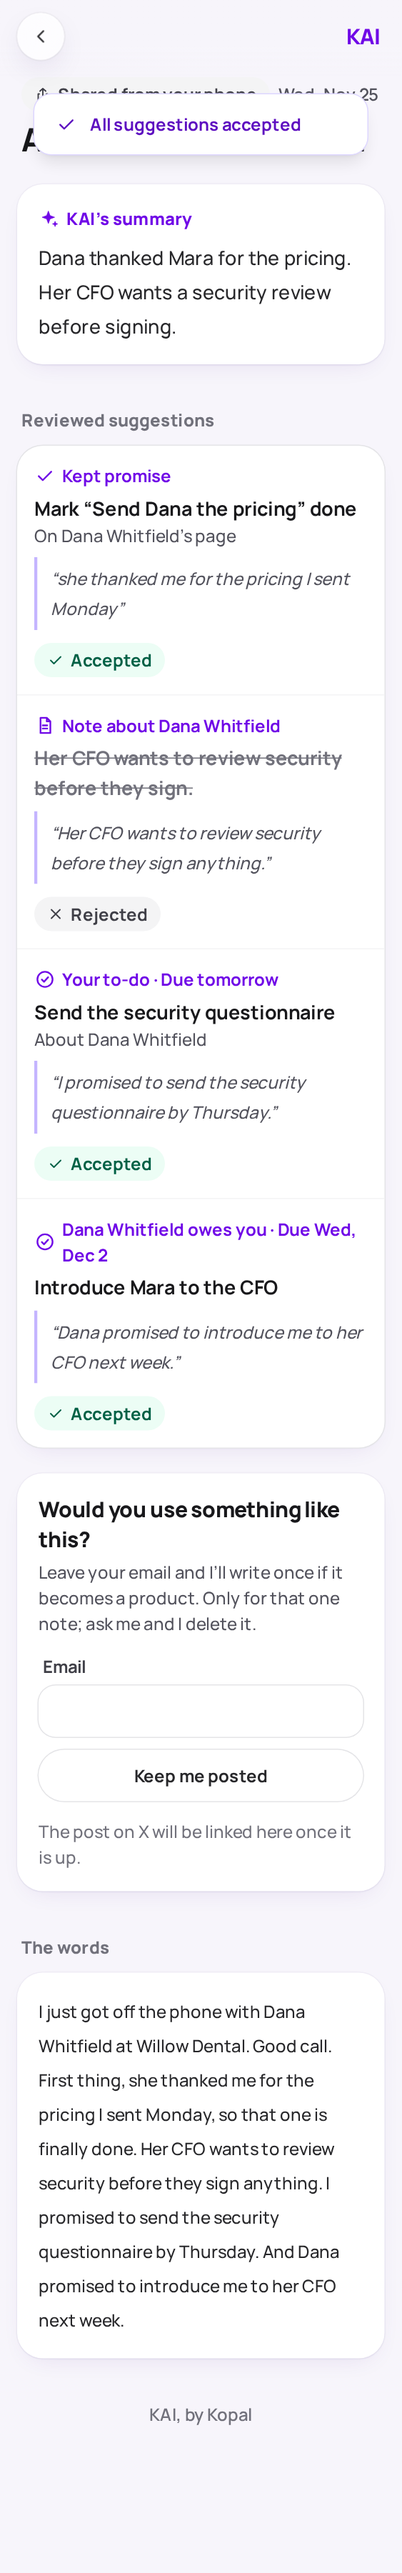
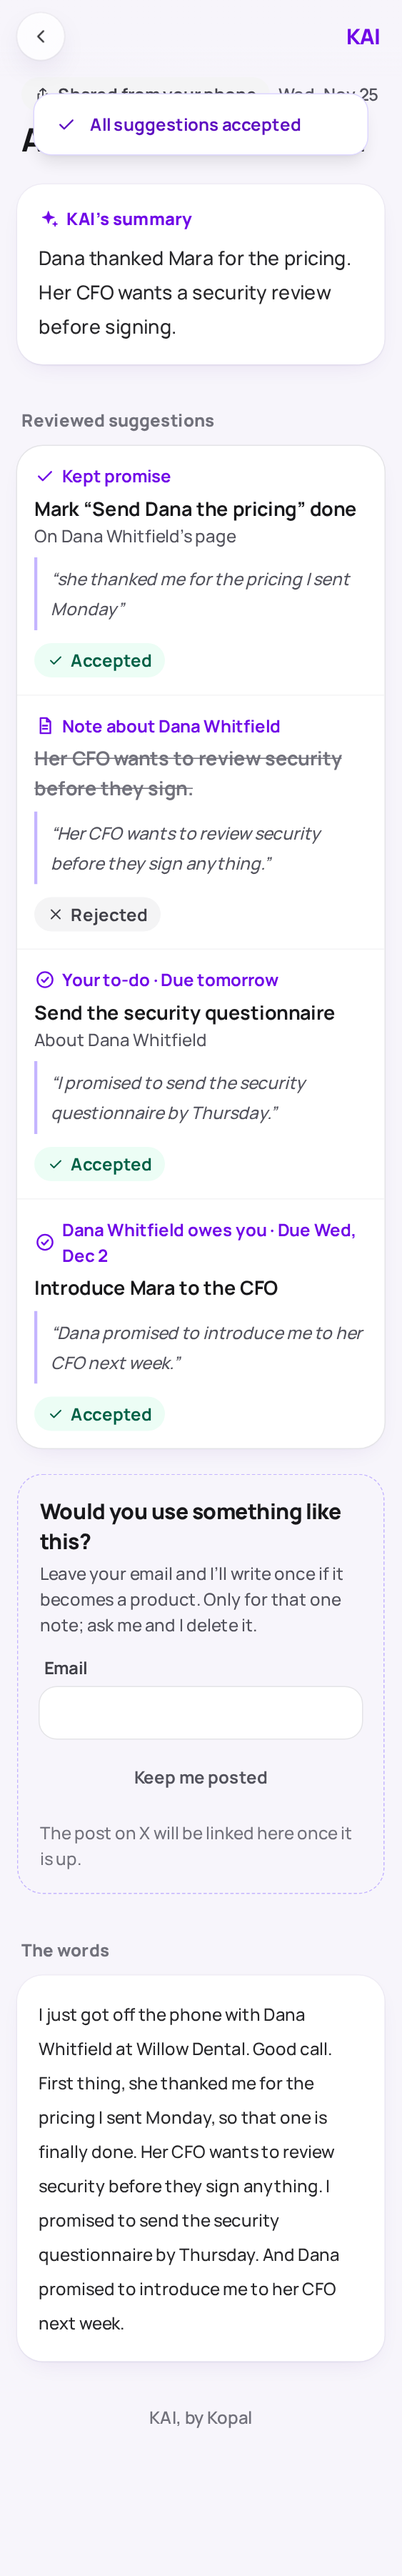
Offer verified trial signup from the quieter Home email card

diff --git a/src/look/screens/Waitlist.tsx b/src/look/screens/Waitlist.tsx
@@ -1,18 +1,20 @@
-import { useState } from 'react'
-import { Button, Card, Field, Notice, TextLink } from '../ui'
+import { useContext, useEffect, useRef, useState } from 'react'
+import { SignupCardContext, Button, Card, Field, Notice, TextLink } from '../ui'
 
 /**
  * The waitlist card, at the foot of Home and under a recording once its
- * suggestions are decided. Its button stays quiet: it is never the screen's
- * filled violet one.
+ * suggestions are decided. Public Home also offers the trial, taking over
+ * the main action when its button is in view.
  */
 export function Waitlist({
   postUrl,
   saved,
   busy,
   error,
-  onSubmit,
+  onSubmit, onTry, trialOpen,
 }: {
+  onTry?: (email:string)=>void
+  trialOpen?: boolean
   postUrl: string | null
   saved?: boolean
   busy?: boolean
@@ -20,8 +22,13 @@ export function Waitlist({
   onSubmit: (email: string) => void
 }) {
   const [email, setEmail] = useState('')
+  const {enabled,active,setActive}=useContext(SignupCardContext)
+  const action=useRef<HTMLDivElement>(null)
+  const [visible,setVisible]=useState(false)
+  useEffect(()=>{const node=action.current;if(!enabled || !node || saved){setVisible(false);return}const observer=new IntersectionObserver(entries=>setVisible(entries[0].isIntersecting),{rootMargin:'-160px 0px -100px 0px'});observer.observe(node);return()=>observer.disconnect()},[enabled,saved])
+  useEffect(()=>{setActive(Boolean(enabled && (visible || trialOpen)));return()=>setActive(false)},[enabled,visible,trialOpen,setActive])
   return (
-    <Card aria-label="Keep me posted" className="p-5">
+    <section aria-label="Keep me posted" className="rounded-3xl border border-dashed border-violet-300 bg-transparent p-5">
       <h2 className="text-xl font-extrabold tracking-tight">Would you use something like this?</h2>
       <p className="mt-1 text-base font-medium text-zinc-600">
         Leave your email and I’ll write once if it becomes a product. Only for that one note; ask me and I delete it.
@@ -35,12 +42,13 @@ export function Waitlist({
           className="mt-4 space-y-3"
           onSubmit={(event) => {
             event.preventDefault()
-            onSubmit(email)
+            if((event.nativeEvent as SubmitEvent).submitter?.getAttribute('data-trial')==='true')onTry?.(email);else onSubmit(email)
           }}
         >
           <Field label="Email" id="waitlist-email" type="email" autoComplete="email" maxLength={254} required value={email} onChange={(event) => setEmail(event.target.value)} />
           {error && <Notice tone="error">{error}</Notice>}
-          <Button variant="outline" type="submit" wide disabled={busy}>
+          {enabled && <div ref={action}><Button data-trial="true" variant={active && !trialOpen ? 'primary':'outline'} type="submit" wide disabled={busy}>Try it myself</Button></div>}
+          <Button variant="quiet" type="submit" wide disabled={busy}>
             {busy ? 'Saving…' : 'Keep me posted'}
           </Button>
         </form>
@@ -54,7 +62,7 @@ export function Waitlist({
           <p className="pt-2 text-base font-medium text-zinc-500">The post on X will be linked here once it is up.</p>
         )}
       </div>
-    </Card>
+    </section>
   )
 }
 

diff --git a/src/Waitlist.tsx b/src/Waitlist.tsx
@@ -1,14 +1,16 @@
+import {TrialPopup} from './look/screens/TrialPopup';
 import {TERMS_VERSION} from './terms';
 import { Trial } from './look/screens/Trial';
 import { useEffect,useState } from 'react';
 import { Waitlist as WaitlistView,Operator as OperatorView } from './look/screens/Waitlist';
 export function Waitlist({trial=false}:{trial?:boolean}) {
   const [codeEmail,setCodeEmail]=useState('');
+  const [trialEmail,setTrialEmail]=useState(''),[trialOpen,setTrialOpen]=useState(false);
   const [ready,setReady]=useState(false),[busy,setBusy]=useState(false),[saved,setSaved]=useState(false),[error,setError]=useState(''),[post,setPost]=useState<string|null>(null);
   useEffect(()=> {fetch('/api/waitlist').then(r=>{if(!r.ok)throw new Error();return r.json();}).then(data=>{setPost(data.xPostUrl);setReady(true);}).catch(()=>setError('The list could not load. Reload this page to try again.'));},[]);
-  async function submit(email:string) {
+  async function submit(email:string,forTrial=trial) {
     setBusy(true);setError('');
-    if(trial){
+    if(forTrial){
       try {const r=await fetch('/api/trial/code',{method:'POST',headers:{'Content-Type':'application/json'},body:JSON.stringify({email,termsVersion:TERMS_VERSION})});const data=await r.json();if(!r.ok)throw new Error(data.error);setCodeEmail(email);}
       catch(e){setError(e instanceof Error ? e.message:'The code could not be sent.');}finally{setBusy(false);}
       return;
@@ -21,7 +23,9 @@ export function Waitlist({trial=false}:{trial?:boolean}) {
   }
   async function verify(code:string){setBusy(true);setError('');try{const r=await fetch('/api/trial/verify',{method:'POST',headers:{'Content-Type':'application/json'},body:JSON.stringify({email:codeEmail,code,termsVersion:TERMS_VERSION})});const data=await r.json();if(!r.ok)throw new Error(data.error);location.assign('/home');}catch(e){setError(e instanceof Error ? e.message:'The code could not be checked.');}finally{setBusy(false);}}
   if(trial)return <Trial busy={busy} codeSent={Boolean(codeEmail)} error={error} onSubmit={email=>void submit(email)} onVerify={code=>void verify(code)} onResend={()=>void submit(codeEmail)}/>;
-  return <WaitlistView postUrl={post} saved={saved} busy={!ready || busy} error={error} onSubmit={email=>void submit(email)}/>;
+  return <><WaitlistView postUrl={post} saved={saved} busy={!ready || busy} error={trialOpen?undefined:error} trialOpen={trialOpen} onTry={email=>{setTrialEmail(email);setError('');setCodeEmail('');setTrialOpen(true)}} onSubmit={email=>void submit(email)}/>
+   {trialOpen && <TrialPopup open onClose={()=>{setTrialOpen(false);setError('')}} busy={busy} error={error} codeSent={Boolean(codeEmail)} onSubmit={()=>void submit(trialEmail,true)} onVerify={code=>void verify(code)} onResend={()=>void submit(trialEmail,true)}/>}
+  </>;
 }
 
 export function Operator({secret}:{secret:string|null}) {

diff --git a/src/look/screens/TrialPopup.tsx b/src/look/screens/TrialPopup.tsx
@@ -1,0 +1,22 @@
+import {useState} from 'react'
+import {Dialog,DialogTitle} from '../../catalyst/dialog'
+import {Button,Field,FOCUS,Notice} from '../ui'
+export function TrialPopup({open,onClose,busy,error,codeSent,onSubmit,onVerify,onResend}:{open:boolean;onClose:()=>void;busy?:boolean;error?:string;codeSent?:boolean;onSubmit:()=>void;onVerify:(code:string)=>void;onResend:()=>void}) {
+ const [agreed,setAgreed]=useState(false),[code,setCode]=useState('')
+ return <Dialog open={open} onClose={onClose} className="!rounded-t-3xl sm:!rounded-3xl">
+  <DialogTitle className="!text-2xl !font-extrabold">{codeSent?'Check your email':'Try KAI with your recordings'}</DialogTitle>
+  <form className="mt-4 space-y-4" onSubmit={e=>{e.preventDefault();if(codeSent)onVerify(code);else if(agreed)onSubmit()}}>
+   {codeSent ? <><p className="text-base/7 text-zinc-600">If this email and network are eligible, a six-digit code is on its way. It lasts ten minutes.</p><Field id="card-code" label="Verification code" type="password" inputMode="numeric" autoComplete="one-time-code" pattern="[0-9]{6}" minLength={6} maxLength={6} required value={code} onChange={e=>setCode(e.target.value)}/></> : <>
+    <p className="text-base/7 text-zinc-600">Verify the email you entered for 30 minutes of recording time. No payment needed. Available to the first 100 people, with one trial per email and public IP address.</p>
+    <p className="text-base/7 text-zinc-600">KAI emails you when a recording is ready or needs another try. You’ll also join the waitlist for one note if KAI becomes a product. Ask us to delete your data at any time.</p>
+    <p className="text-base/7 text-zinc-600">AssemblyAI transcribes your recording and Claude reads it. Your private demo notebook is deleted on 8 December. Sign in by email to return to it.</p>
+    <p className="text-base/7 text-zinc-600">One audio file at a time, up to 10 MB and under 30 minutes, within your remaining time. Daily limits apply.</p>
+    <label className="flex items-center gap-3 text-base/7"><input type="checkbox" required className="login-check size-11 shrink-0" checked={agreed} onChange={e=>setAgreed(e.target.checked)}/><span>I agree to the <a href="/terms" target="_blank" rel="noopener" className={`${FOCUS} inline-flex min-h-11 items-center font-bold text-violet-700 underline`}>demo terms and privacy</a></span></label>
+   </>}
+   {error && <Notice tone="error">{error}</Notice>}
+   <Button variant="primary" wide type="submit" disabled={busy || (!codeSent && !agreed)}>{busy?'Please wait…':codeSent?'Verify and open notebook':'Send verification code'}</Button>
+   {codeSent && <Button variant="quiet" wide disabled={busy} onClick={onResend}>Send another code</Button>}
+   <Button variant="quiet" wide onClick={onClose}>Back to browsing</Button>
+  </form>
+ </Dialog>
+}

diff --git a/tests/phone/trial.spec.ts b/tests/phone/trial.spec.ts
@@ -28,3 +28,18 @@ test('a trial claimed in another browser shows a useful error without giving acc
  await expect(page.getByText('Return to the browser where you started this notebook to verify it.')).toBeVisible();await assertPhone(page);
  expect((await page.context().cookies()).some(c=>c.name==='kai_session')).toBe(false);
 });
+
+test('Home card reuses its email, requires popup consent and verifies into the same trial flow',async({page,kai})=>{
+ await page.setExtraHTTPHeaders({'Sprite-Client-IP':'192.0.2.181'});
+ await page.goto('/home');
+ const floating=page.getByRole('link',{name:'Try it yourself',exact:true});await expect(floating).toBeVisible();
+ const email=randomUUID()+'@example.invalid';await page.getByLabel('Email',{exact:true}).fill(email);
+ const action=page.getByRole('button',{name:'Try it myself',exact:true});await action.scrollIntoViewIfNeeded();await expect(floating).toHaveCount(0);await assertPhone(page);
+ await action.click();const dialog=page.getByRole('dialog');await expect(dialog.getByRole('heading',{name:'Try KAI with your recordings'})).toBeVisible();await expect(dialog.getByLabel('Email',{exact:true})).toHaveCount(0);
+ await expect(dialog.getByRole('button',{name:'Send verification code'})).toBeDisabled();expect(kai.codes.has(email)).toBe(false);await assertPhone(page);
+ await dialog.getByRole('button',{name:'Back to browsing'}).click();await expect(dialog).toHaveCount(0);await expect(page.getByLabel('Email',{exact:true})).toHaveValue(email);
+ await page.evaluate(()=>scrollTo(0,0));await expect(floating).toBeVisible();
+ await action.click();await dialog.getByRole('checkbox').check();await dialog.getByRole('button',{name:'Send verification code'}).click();await expect(dialog.getByLabel('Verification code')).toBeVisible();await assertPhone(page);
+ await dialog.getByLabel('Verification code').fill(kai.codes.get(email)!);await dialog.getByRole('button',{name:'Verify and open notebook'}).click();
+ await expect(page.getByText('Your notebook starts here')).toBeVisible();await expect(page.getByText('30 min 0 sec left')).toBeVisible();
+});

diff --git a/src/look/screens/Home.tsx b/src/look/screens/Home.tsx
@@ -2,7 +2,7 @@ import {DemoInfo,ProcessingInfo} from './DemoInfo'
 import { useState, type ReactNode } from 'react'
 import { Icon } from '../icons'
 import type { HomeData, QueueItem, Sample } from '../types'
-import { AddRecordings, Area, Button, Card, DueChip, Field, FOCUS, Notice, Rows, SectionLabel, TabPage, TextLink, useHref, WhatIsKai, Working, Tick } from '../ui'
+import { SignupCardContext, AddRecordings, Area, Button, Card, DueChip, Field, FOCUS, Notice, Rows, SectionLabel, TabPage, TextLink, useHref, WhatIsKai, Working, Tick } from '../ui'
 
 const STATUS: Record<QueueItem['status'], string> = {
   waiting: 'Waiting',
@@ -165,14 +165,15 @@ export function Home({
   onSample: (id: string) => void
 }) {
   const to = useHref()
+  const [signupActive,setSignupActive]=useState(false)
   return (
-    <TabPage
+    <SignupCardContext.Provider value={{enabled:readOnly,active:signupActive,setActive:setSignupActive}}><TabPage
       current="/home"
       title="Home"
       subtitle="Share a recording in. KAI finds the people, the notes and the promises."
       readOnly={readOnly}
       due={due}
-      dock={readOnly ? <WhatIsKai /> : <AddRecordings onFiles={onFiles} busy={adding} />}
+      dock={readOnly ? <WhatIsKai hideTrial={signupActive}/> : <AddRecordings onFiles={onFiles} busy={adding} />}
     >
       {queue.length > 0 && <Queue items={queue} initialInfoOpen={initialInfoOpen} showInfo={Boolean(home?.trialVerified && queue.some(item=>['waiting','listening','reading'].includes(item.status) && !item.awaiting_person && !item.awaiting_speakers))} />}
       {home && !readOnly && !home.shortcutReady && <Card className="space-y-3 p-5"><h2 className="text-xl font-extrabold">Send voice notes straight to KAI</h2><p className="text-base/7 text-zinc-600">Set up the iPhone shortcut once, then share from Voice Memos or WhatsApp.</p><Button variant="outline" href="/connect">Set up your phone</Button></Card>}
@@ -222,6 +223,6 @@ export function Home({
         </>
       )}
       {waitlist}
-    </TabPage>
+    </TabPage></SignupCardContext.Provider>
   )
 }

diff --git a/design/gallery.tsx b/design/gallery.tsx
@@ -1,3 +1,4 @@
+import {TrialPopup} from '../src/look/screens/TrialPopup'
 import {Login} from '../src/look/screens/Login'
 import {Terms} from '../src/look/screens/Terms'
 import {Search} from '../src/look/screens/Search'
@@ -145,6 +146,9 @@ const STATES: Record<string, { title: string; screen: () => ReactNode }> = {
   'try/code-error': {title:'Trial · wrong code',screen:()=> <Trial codeSent error='Check the code and try again.' onSubmit={nothing} onVerify={nothing} onResend={nothing}/>},
   try: {title:'Trial · join',screen:()=> <Trial onSubmit={nothing}/>},
   'try/busy': {title:'Trial · opening',screen:()=> <Trial busy onSubmit={nothing}/>},
+  'try/popup':{title:'Trial · agreement popup',screen:()=> <TrialPopup open onClose={nothing} onSubmit={nothing} onVerify={nothing} onResend={nothing}/>},
+  'try/popup-code':{title:'Trial · code popup',screen:()=> <TrialPopup open codeSent onClose={nothing} onSubmit={nothing} onVerify={nothing} onResend={nothing}/>},
+  'try/popup-error':{title:'Trial · popup error',screen:()=> <TrialPopup open codeSent error='This code expired or could not be checked. Ask for a new code.' onClose={nothing} onSubmit={nothing} onVerify={nothing} onResend={nothing}/>},
   'login':{title:'Sign in',screen:()=> <Login onSubmit={nothing} onVerify={nothing} onResend={nothing} onSignOut={nothing}/>},
   'login/code':{title:'Sign in · code',screen:()=> <Login codeSent onSubmit={nothing} onVerify={nothing} onResend={nothing} onSignOut={nothing}/>},
   'login/busy':{title:'Sign in · busy',screen:()=> <Login busy onSubmit={nothing} onVerify={nothing} onResend={nothing} onSignOut={nothing}/>},

diff --git a/src/look/ui.tsx b/src/look/ui.tsx
@@ -18,6 +18,7 @@ export const HrefProvider = HrefContext.Provider
 export const useHref = () => useContext(HrefContext)
 const NotebookStatusContext=createContext({unread:0})
 export const NotebookStatusProvider=NotebookStatusContext.Provider
+export const SignupCardContext=createContext({enabled:false,active:false,setActive:(_active:boolean)=>{}})
 
 /* ---------- surfaces ---------- */
 
@@ -545,6 +546,6 @@ export function RecordingPicker({ onFiles, busy, disabled, label='Add recordings
 }
 
 /** The action of a tab page in the read-only copy. */
-export function WhatIsKai() {
-  return <div className="flex w-full items-center gap-3"><div className="min-w-0 flex-1"><Button variant="primary" wide href="/try">Try it yourself</Button></div><div className="shrink-0"><RoundLink href="/search" label="Search" icon="search"/></div></div>
+export function WhatIsKai({hideTrial=false}:{hideTrial?:boolean}) {
+  return <div className="flex w-full items-center gap-3">{!hideTrial && <div className="min-w-0 flex-1"><Button variant="primary" wide href="/try">Try it yourself</Button></div>}<div className="shrink-0"><RoundLink href="/search" label="Search" icon="search"/></div></div>
 }

diff --git a/design/README.md b/design/README.md
@@ -176,3 +176,5 @@ Demo imports accept one recording at a time. The Files picker, upload guidance a
 Email sign-in has initial, code, busy, error and explicit notebook-switch states. Connections includes browser sign-out and confirmation states, including the invitation warning. The same notebook reopens with a fresh verified email code; signing in adds no trial time.
 
 Sign-in keeps its email explanation short. The agreement includes its terms/privacy link in the label; its 20 px check retains a 44 px touch target on phones and desktop.
+
+The email card has a dashed outline. On public Home, Try it myself reuses its email and opens an information/terms popup before code verification; Keep me posted remains secondary. The floating trial action yields to the visible card action, then returns when it leaves view. Signed-in notebooks keep their existing waitlist action.
